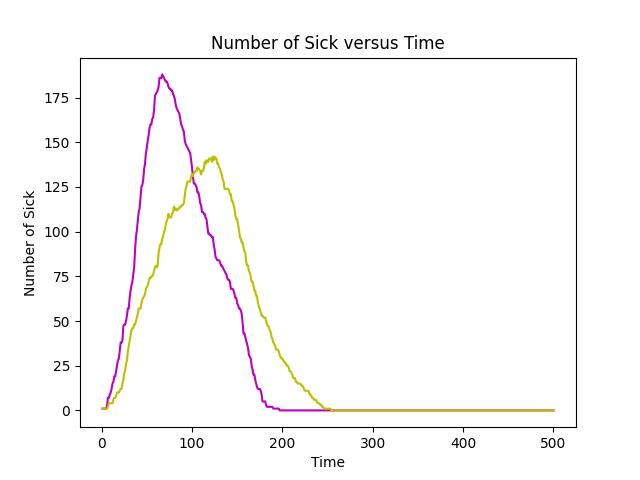
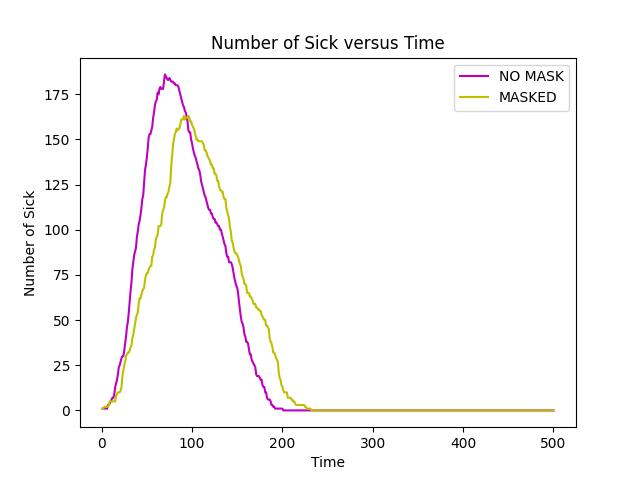
Forgot legend on one picture so super fast updating. Plus previous commit message was boring

diff --git a/Final/Final_BeneaththeMask.py b/Final/Final_BeneaththeMask.py
@@ -8,7 +8,8 @@ people2,infections2,deaths2,ticktock2,reapers_list2 = Panome.ThePlague(500,maske
 plt.xlabel("Time")
 plt.ylabel("Number of Sick")
 plt.title("Number of Sick versus Time")
-plt.plot(ticktock1,reapers_list1, c = "m")
-plt.plot(ticktock2,reapers_list2, c= "y")
+plt.plot(ticktock1,reapers_list1, c = "m", label = "NO MASK")
+plt.plot(ticktock2,reapers_list2, c= "y", label = "MASKED")
+plt.legend()
 plt.savefig("FlatteningCurve.jpg")
 plt.show()
